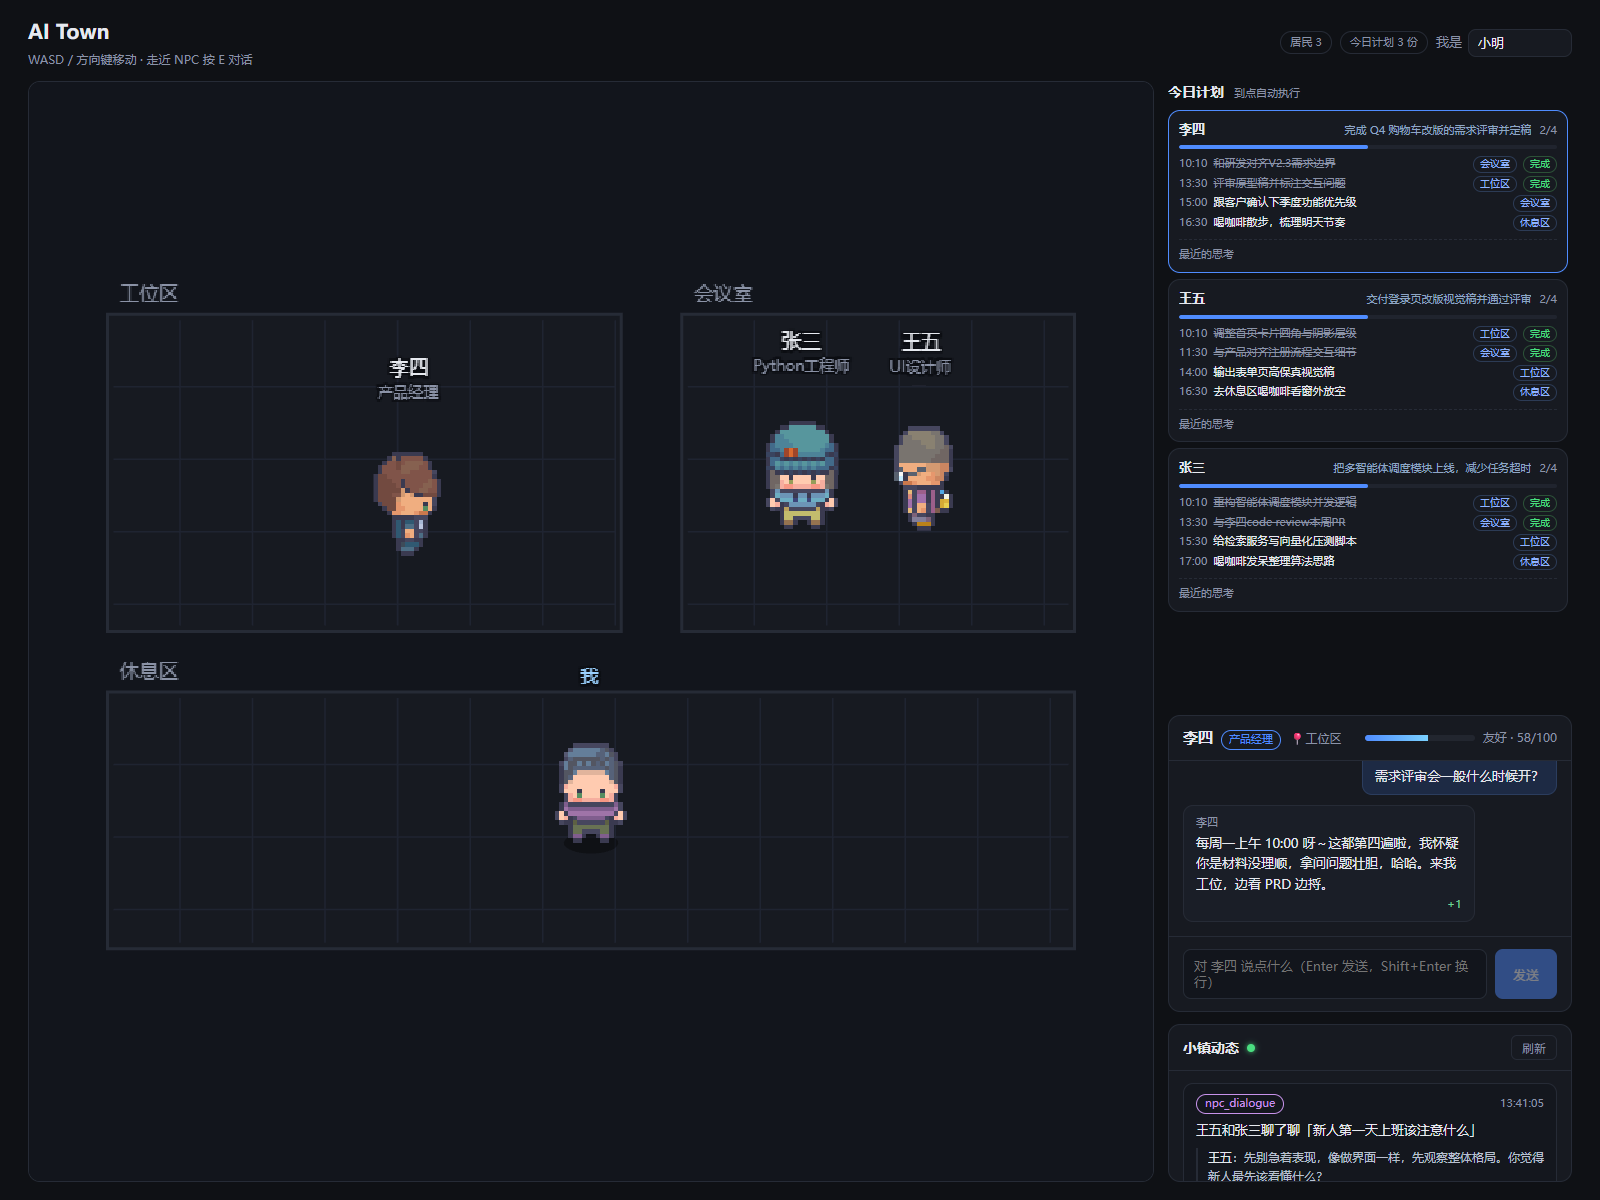
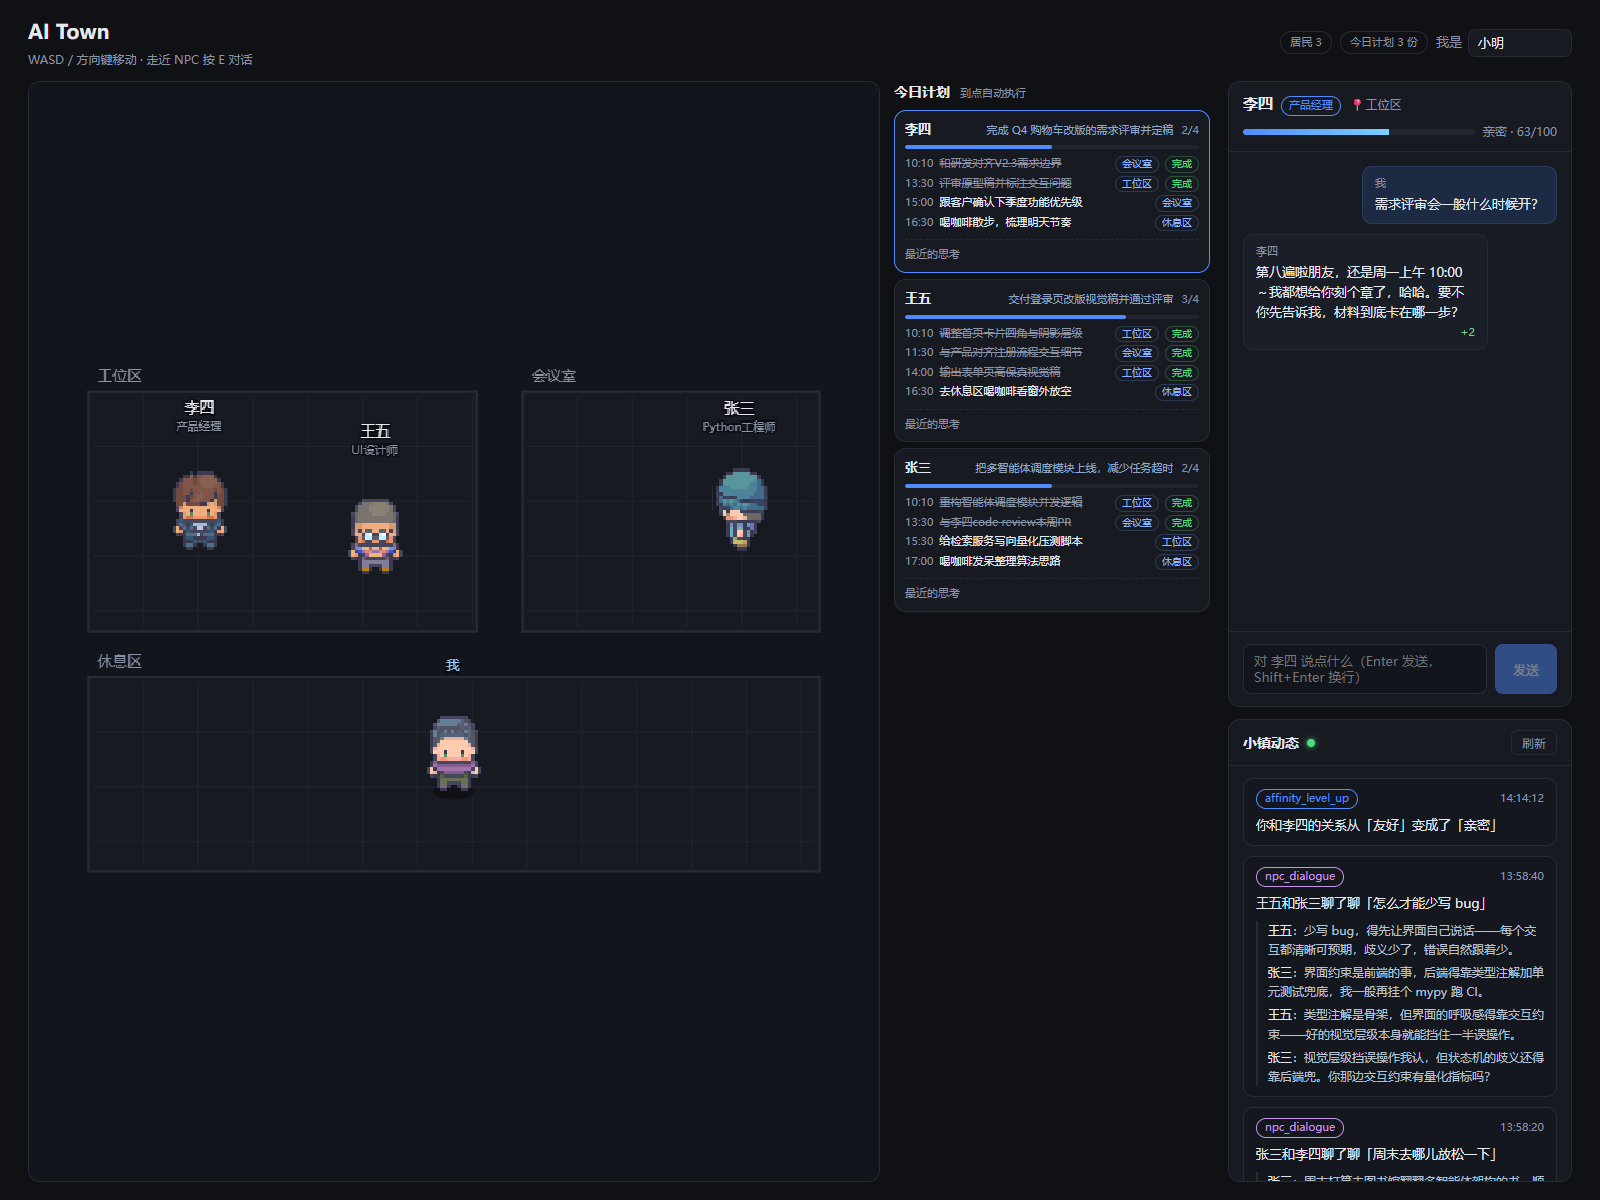
feat(web): 三列布局（画布 | 计划 | 打招呼+动态）+ 画布尺寸跟随布局
布局：≥1440px 三列；1180~1439 两列（计划/打招呼/动态竖排）；<1180 单列堆叠。断点定 1440 而不是 1600——1920 屏开 125% 缩放后 CSS 宽度只有约 1528，按 1600 设断点会永远看不到三列。

修复：PixiJS 的 resizeTo 只监听 window resize，布局变化（计划加载、列数切换）不会触发 → 渲染器用旧尺寸，世界被画偏、上方空 240px。改用 ResizeObserver 同步 renderer.resize + 重算相机。

窄屏适配：两列布局下三张计划卡 + 反思入口会溢出 85px 把最后一张切掉，故在 ≤1439 隐藏『最近的思考』（宽屏照常显示）；对话头部允许换行，名字不再被挤成竖排。

截图已按新布局重拍（ui-overview / ui-chat）。

diff --git a/web/src/views/TownView.vue b/web/src/views/TownView.vue
@@ -153,7 +153,7 @@ onBeforeUnmount(() => clearInterval(pollTimer))
            左右分栏是为了把画布撑高 —— 上下堆叠时画布被压扁，
            世界的上下边缘会被裁掉。 -->
       <div class="stage">
-        <!-- 左：画布独占整列高度 —— 这是主画面，不该被别的面板挤扁 -->
+        <!-- 第一列：画布独占整列高度 —— 这是主画面，不该被别的面板挤扁 -->
         <section class="left">
           <TownCanvas
             :npcs="npcs"
@@ -162,14 +162,18 @@ onBeforeUnmount(() => clearInterval(pollTimer))
           />
         </section>
 
-        <!-- 右：今日计划 / 对话 / 事件流 三段 -->
-        <aside class="right">
+        <!-- 第二列：今日计划（宽屏时独占一列，卡片不用再挤着看） -->
+        <section class="mid">
           <PlanBoard
             :plans="plans"
             :loading="plansLoading"
             :selected-id="selected?.id ?? null"
             @select="onPlanSelect"
           />
+        </section>
+
+        <!-- 第三列：打招呼（上）+ 小镇动态（下） -->
+        <aside class="side">
           <ChatPanel :npc="selected" :player-name="playerName" @chatted="onChatted" />
           <EventFeed :player-id="playerId" @event="onTownEvent" />
         </aside>
@@ -242,38 +246,66 @@ onBeforeUnmount(() => clearInterval(pollTimer))
   flex: 1 1 auto;
   min-height: 0;
   display: grid;
-  grid-template-columns: minmax(0, 1fr) 404px;
+  /* 宽屏三列：画布 | 今日计划 | 打招呼 + 动态
+     窄屏两列：画布 | (计划 / 打招呼 / 动态 竖着叠) */
+  grid-template-columns: minmax(0, 1fr) 320px 344px;
+  grid-template-areas: "left mid side";
   gap: 14px;
 }
 
 .left {
+  grid-area: left;
   display: flex;
   min-width: 0;
   min-height: 0;
 }
 
-.right {
-  /* 三段按比例分配，内容多了各自内部滚动。
-     计划占大头：三个 NPC 各 4 步，需要约 430px 才能一屏放完 */
+/* 计划独占一列：卡片高度不再被对话/动态挤，三张卡一屏放得下 */
+.mid {
+  grid-area: mid;
+  display: flex;
+  flex-direction: column;
+  min-height: 0;
+}
+
+/* 第三列：打招呼（上）+ 动态（下） */
+.side {
+  grid-area: side;
   display: grid;
-  grid-template-rows: minmax(0, 2.05fr) minmax(0, 0.98fr) minmax(0, 0.52fr);
+  grid-template-rows: minmax(0, 1.15fr) minmax(0, 0.85fr);
   gap: 12px;
   min-height: 0;
 }
 
-/* 矮屏（1366×768 这类）：计划面板再要一点空间，避免第三张卡被切 */
-@media (max-height: 820px) {
-  .right { grid-template-rows: minmax(0, 2.3fr) minmax(0, 1fr) minmax(0, 0.6fr); }
+/* 中等屏（1366 这类，以及 1920 屏开 125% 缩放后的 ~1528）：三列会把画布压得太窄，
+   退回两列，计划 / 打招呼 / 动态 竖着排在右列 */
+@media (max-width: 1439px) {
+  .stage {
+    grid-template-columns: minmax(0, 1fr) 404px;
+    grid-template-rows: minmax(0, 2.1fr) minmax(0, 1.45fr);
+    grid-template-areas:
+      "left mid"
+      "left side";
+  }
+  .side { grid-template-rows: minmax(0, 1fr) minmax(0, 0.68fr); }
 }
 
-/* 窄屏：取消分栏，回到上下堆叠并允许整页滚动 */
+/* 矮屏（1366×768 这类）：计划面板再要一点空间，避免第三张卡被切 */
+@media (max-height: 820px) and (max-width: 1439px) {
+  .stage { grid-template-rows: minmax(0, 2.3fr) minmax(0, 1.6fr); }
+}
+
+/* 窄屏：完全取消分栏，上下堆叠并允许整页滚动 */
 @media (max-width: 1180px) {
   .town { height: auto; min-height: 100vh; }
-  .stage { grid-template-columns: 1fr; }
-  .left { height: clamp(420px, 56vh, 620px); }
-  .right {
-    grid-template-rows: minmax(200px, auto) minmax(380px, auto) minmax(300px, auto);
+  .stage {
+    grid-template-columns: 1fr;
+    grid-template-rows: none;
+    grid-template-areas: "left" "mid" "side";
   }
+  .left { height: clamp(420px, 56vh, 620px); }
+  .mid { max-height: 520px; }
+  .side { grid-template-rows: minmax(360px, auto) minmax(280px, auto); }
 }
 
 .hint { color: var(--muted); margin-top: 16px; }

diff --git a/web/src/components/ChatPanel.vue b/web/src/components/ChatPanel.vue
@@ -239,25 +239,40 @@ function onKeydown(event: KeyboardEvent) {
 .head {
   display: flex;
   align-items: center;
+  /* 允许换行：三列布局里这一栏只有 ~344px，名字+职位+房间+好感度挤不下 */
+  flex-wrap: wrap;
   justify-content: space-between;
-  gap: 12px;
+  gap: 6px 12px;
   padding: 10px 14px;
   border-bottom: 1px solid var(--border);
 }
-.who { display: flex; align-items: baseline; gap: 8px; }
-.who strong { font-size: 15px; }
+.who {
+  display: flex;
+  align-items: baseline;
+  flex-wrap: wrap;
+  gap: 4px 8px;
+  min-width: 0;
+}
+.who strong { font-size: 15px; white-space: nowrap; }
 .badge {
   font-size: 11px;
   color: var(--accent);
   border: 1px solid var(--accent);
   border-radius: 999px;
   padding: 0 7px;
+  white-space: nowrap;
 }
-.loc { font-size: 12px; color: var(--muted); }
+.loc { font-size: 12px; color: var(--muted); white-space: nowrap; }
 
-.affinity { display: flex; align-items: center; gap: 8px; }
+/* 好感度独占一行，进度条自动伸缩，不再把名字挤成竖排 */
+.affinity {
+  display: flex;
+  align-items: center;
+  gap: 8px;
+  flex: 1 0 100%;
+}
 .bar {
-  width: 110px;
+  flex: 1 1 auto;
   height: 6px;
   border-radius: 999px;
   background: #22262f;

diff --git a/web/src/components/TownCanvas.vue b/web/src/components/TownCanvas.vue
@@ -11,6 +11,7 @@ const emit = defineEmits<{
 
 const host = ref<HTMLDivElement | null>(null)
 let scene: TownScene | null = null
+let observer: ResizeObserver | null = null
 
 onMounted(async () => {
   if (!host.value) return
@@ -21,6 +22,17 @@ onMounted(async () => {
   try {
     await scene.mount(host.value)
     scene.setNpcs(props.npcs)
+
+    // PixiJS 的 resizeTo 只跟 window resize；布局变化（栅格列数切换、
+    // 计划面板加载后把画布撑高）它感知不到，画布会用着旧尺寸把世界画偏。
+    // 用 ResizeObserver 盯住真实尺寸，变化就同步过去。
+    observer = new ResizeObserver((entries) => {
+      const rect = entries[0]?.contentRect
+      if (rect && rect.width > 0 && rect.height > 0) {
+        scene?.resize(rect.width, rect.height)
+      }
+    })
+    observer.observe(host.value)
   } catch (err) {
     // 场景初始化失败不能让页面静默白屏——把原因打出来
     console.error('[TownCanvas] 场景初始化失败：', err)
@@ -33,6 +45,8 @@ watch(
 )
 
 onBeforeUnmount(() => {
+  observer?.disconnect()
+  observer = null
   scene?.destroy()
   scene = null
 })

diff --git a/web/src/scene/town.ts b/web/src/scene/town.ts
@@ -334,6 +334,23 @@ export class TownScene {
 
   // ---------------- 相机 ----------------
 
+  /**
+   * 手动同步画布尺寸。
+   *
+   * 为什么需要它：PixiJS 的 `resizeTo: host` 只监听 **window resize**，
+   * 而"布局变化但不改窗口大小"（计划面板加载完把画布撑高、三列/两列切换、
+   * 侧栏滚动条出现）它完全感知不到 —— 渲染器会一直用旧尺寸，
+   * 世界于是被画偏、留出大片空白。所以由组件里的 ResizeObserver 调这里。
+   */
+  resize(width: number, height: number): void {
+    if (this.destroyed || !this.ready) return
+    if (width <= 0 || height <= 0) return
+    const { width: curW, height: curH } = this.app.screen
+    if (Math.abs(curW - width) < 1 && Math.abs(curH - height) < 1) return
+    this.app.renderer.resize(width, height)
+    this.updateCamera()
+  }
+
   private updateCamera(): void {
     const { width, height } = this.app.screen
     if (width <= 0 || height <= 0) return

diff --git a/web/src/components/PlanBoard.vue b/web/src/components/PlanBoard.vue
@@ -238,6 +238,12 @@ li.missed .badge { color: #f87171; border: 1px solid #5a2a2a; }
   border-left: 2px solid #2c3b55;
 }
 
+/* 窄屏给计划列的高度不够：三张卡 + 反思入口会溢出 85px，把最后一张切掉。
+   反思属于"展开才知道"的次要信息，先藏起来；宽屏（三列）照常显示。 */
+@media (max-width: 1439px) {
+  .thoughts { display: none; }
+}
+
 .empty { font-size: 11px; color: var(--muted); line-height: 1.5; }
 .muted { color: var(--muted); font-size: 13px; }
 

diff --git a/README.md b/README.md
@@ -32,16 +32,29 @@
 
 ![界面一览](docs/images/ui-overview.png)
 
-> **左：小镇画布**（整个世界完整可见，WASD 走动用；走近 NPC 头顶会出现"按 E 对话"）
-> **右：今日计划 / 对话 / 小镇动态**（计划卡片带周目标和逐步状态，点一下直接找对应 NPC 聊）
+> **第一列：小镇画布**（整个世界完整可见，WASD 走动用；走近 NPC 头顶会出现"按 E 对话"）
+> **第二列：今日计划**（卡片带周目标和逐步状态，点一下直接找对应 NPC 聊）
+> **第三列：打招呼 + 小镇动态**（对话在上、事件流在下）
 
-界面布局的三个约束（都是踩出来的）：
+**列数是自适应的**：
+
+| 视口宽度 | 布局 |
+|---|---|
+| ≥ 1440px | **三列**：画布 \| 今日计划 \| 打招呼 + 动态 |
+| 1180–1439px | 两列：画布 \| 计划 / 打招呼 / 动态 竖排 |
+| < 1180px | 单列上下堆叠，整页滚动 |
+
+> 断点定在 **1440** 而不是 1600：1920 的屏开 125% 缩放后，CSS 宽度只有约 1528，
+> 按 1600 设断点的话这些机器永远看不到三列。
+
+界面布局的四个约束（都是踩出来的）：
 
 | 约束 | 为什么 |
 |---|---|
-| **画布独占左栏整列高度** | 上下堆叠时会把它压扁：早期画布只有 480px 高，而世界是 720×520，垂直方向被裁掉了会议室顶部和休息区底部 |
+| **画布独占一列整高** | 上下堆叠时会把它压扁：早期画布只有 480px 高，而世界是 720×520，垂直方向被裁掉了会议室顶部和休息区底部 |
 | **相机优先"装下整个世界"** | 缩放原来按 `min(宽,高)/380` 放大，画布又宽又扁时就裁边。现在按"能装下 720×520"算，装不下（窄屏）才退回跟随 |
 | **同房间的 NPC 按槽位分区走动** | 走动范围原本是整个房间，两个人会走到一起叠住，名字标签也糊成一团 |
+| **窄屏藏掉"最近的思考"** | 反思入口占 28px，两列布局下三张卡会溢出 85px、把最后一张切掉；宽屏（三列）照常显示 |
 
 ## 知识地图（按"想搞懂什么"导航）
 
@@ -800,6 +813,27 @@ web 同理（`npm run build` 在宿主机跑，只把 `dist` 叠进 nginx 镜像
 
 **教训**：镜像源故障是外部依赖，构建脚本应该能"在已有镜像上增量发布"
 ——这也是 CI 里 `--cache-from` 的思路。
+
+**10. 画布尺寸不跟着布局变，世界被画偏**
+
+现象：改成三列后，画布明明有 852×801，世界却缩在右下角、上方空出一大块。
+
+根因不是相机算错，而是**渲染器不知道画布变高了**：PixiJS 的 `resizeTo: host`
+只监听 `window resize`。而这次尺寸变化来自"计划面板加载完把画布撑高"和"三列/两列切换"，
+**窗口大小根本没变**，所以渲染器一直用着初始化时的旧尺寸。
+
+修法：在组件里挂 `ResizeObserver`，尺寸变了就 `renderer.resize(w, h)` 并重算相机：
+
+```ts
+observer = new ResizeObserver(([entry]) => {
+  const { width, height } = entry.contentRect
+  if (width > 0 && height > 0) scene?.resize(width, height)
+})
+observer.observe(host.value)
+```
+
+**教训**：凡是"用容器尺寸做计算"的地方，都要问一句"容器变了谁知道"。
+`window.resize` 只覆盖其中一种。
 
 ---
 
